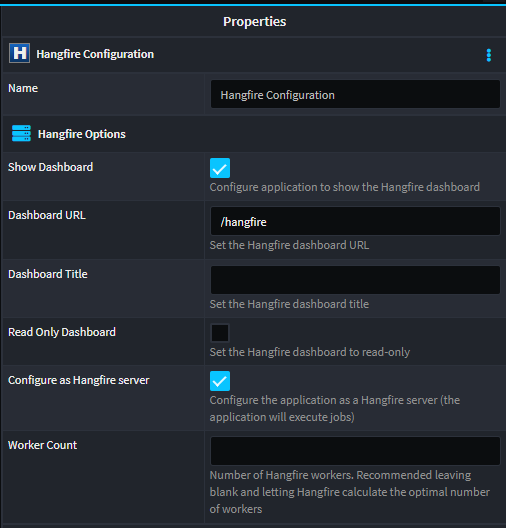
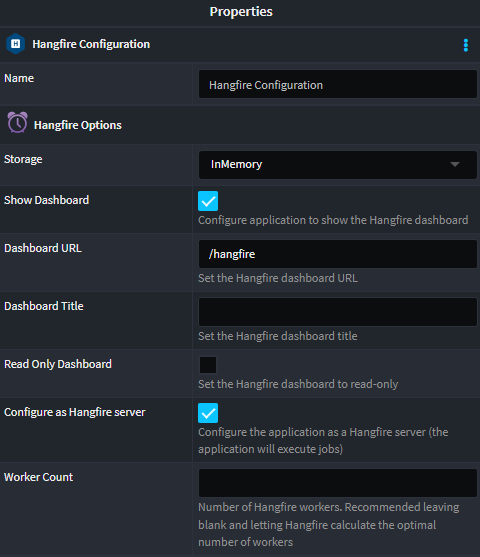
Updated images in documentation

diff --git a/Modules/Intent.Modules.Hangfire/README.md b/Modules/Intent.Modules.Hangfire/README.md
@@ -29,8 +29,14 @@ This will add the core Hangfire components to the application, with the followin
 
 #### Hangfire Configuration Options
 
+##### Storage
+The storage mechanism utilised by Hangfire. Available options are:
+- In Memory: all job information, including job execution history is stored in memory and is lost if the service is restarted
+- SQL Server: all job information is stored in SQL Server tables and is persisted even if the service is restarted
+- None: no storage mechanism is configured by Intent Architect. The condiguration is entirely up to the developer.
+
 ##### Show Dashboard
-If this condition is on (the default value), then the Hangfire Dashboard will be added to the application
+If this condition is on (the default value), then the Hangfire Dashboard will be exposed on _Dashboard Url_
 
 ##### Dashboard URL
 The URL on which the Hangfire dashboard will be served. The default is `/hangfire`
@@ -49,7 +55,7 @@ This value indicates the number of paralell internal processors (workers) are cr
 
 ### Hangfire Jobs and Queues
 
-Once the core Hangfire configuration is completed, one or more jobs and/or queues can be added. In the `Service Designer`, right click on the `Hangfire Configuration` and select the `Add Job` or `Ad Queue` context menu option:
+Once the core Hangfire configuration is completed, one or more jobs and/or queues can be added. In the `Service Designer`, right click on the `Hangfire Configuration` and select the `Add Job` or `Add Queue` context menu option:
 
 ![Add Hangfire](./docs/images/modeled-job-queue.png)
 
